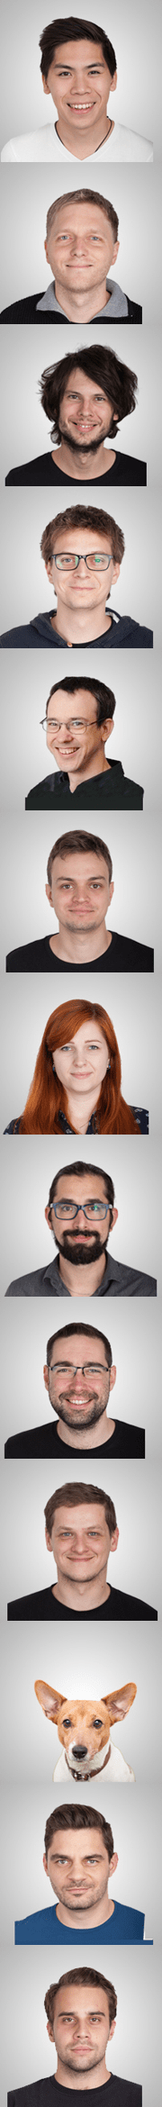
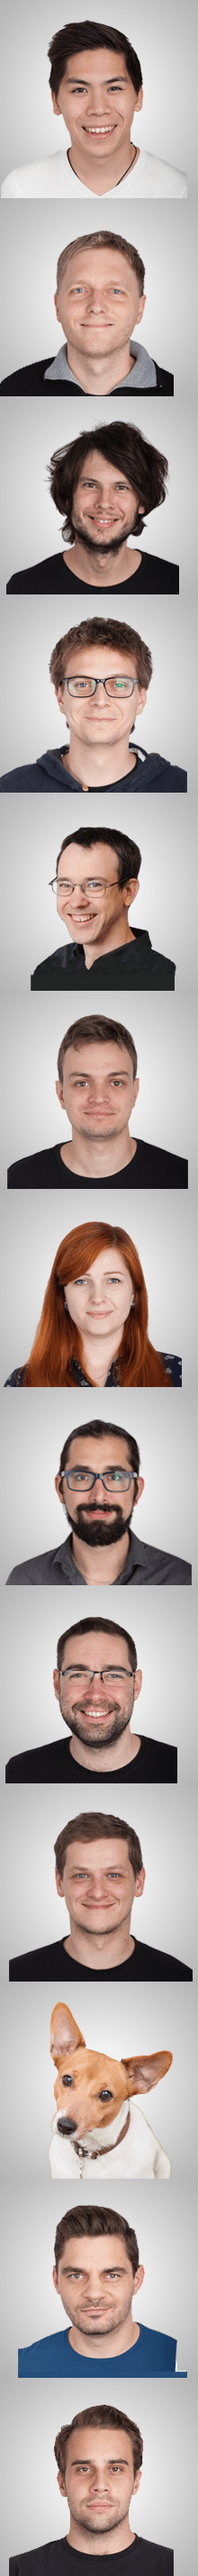
changed pepita foto and added image sources

Changed region(s): [[0.2222, 0.7799, 0.8611, 0.8735]]

diff --git a/pages/index.html b/pages/index.html
@@ -468,9 +468,9 @@
                     <div class="header pepitka"></div>
                     <div class="content">
                         <div class="description">
-                            <h4>Pepitka</h4>
+                            <h4>Pepita</h4>
 
-                            <p class="title">{% trans "Nap Time Coordinator" %}</p>
+                            <p class="title">{% trans "Door Supervisor" %}</p>
                         </div>
                     </div>
                 </div>
@@ -503,7 +503,7 @@
                         <div class="description">
                             <h4>Peter "Buly" Bulak</h4>
 
-                            <p class="title">{% trans "Director" %}</p>
+                            <p class="title">{% trans "Catalyst" %}</p>
                         </div>
                     </div>
                 </div>
